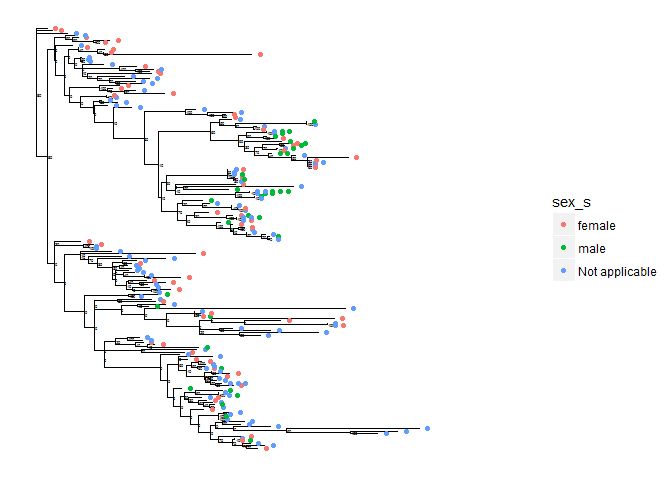
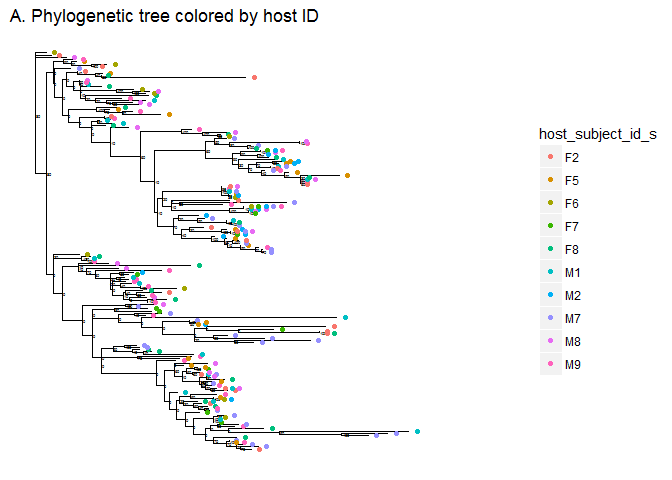
Add Figure 6B, and Discussion section rough outline

diff --git a/Analysis_Report_01_amplicons.md b/Analysis_Report_01_amplicons.md
@@ -14,21 +14,17 @@ Methods
 Sample origin and sequencing
 ----------------------------
 
-Fierer *et al.* obtained the riginal samples from human volunteers and the keyboards/mice they touched. They collected them with sterilized cotton-tipped swabs that had been moistened by a sterile solution. They swabbed the hands midday, and swabbed the mice and keyboards within 12 hours of being used by their respective owners. All of the subjects they sampled were healthy, between 20-35 years old, and had not taken antibiotics 6 months before the sampling. They stored all swabs at -80 degrees celcius for less than a week before DNA extraction.Fierer *et al.* obtained the becterial gene sequences using high-throughput 454 pyrosequencing, one of several next-generation techniques. They sequenced the 16S ribosomal gene, a gene that is conserved acros all of life and is conventionally used to identify bacterium.
+Fierer *et al.* obtained the original samples from human volunteers and the keyboards/mice they touched. They collected them with sterilized cotton-tipped swabs that had been moistened by a sterile solution. They swabbed the hands midday, and swabbed the mice and keyboards within 12 hours of being used by their respective owners. All of the subjects they sampled were healthy, between 20-35 years old, and had not taken antibiotics 6 months before the sampling. They stored all swabs at -80 degrees Celsius for less than a week before DNA extraction.Fierer *et al.* obtained the bacterial gene sequences using high-throughput 454 pyrosequencing, one of several next-generation techniques. They sequenced the 16S ribosomal gene, a gene that is conserved across all of life and is conventionally used to identify bacterium.
 
 Computational
 -------------
 
-DSATDFHGJADJHGFDJGHAFDJGDSFAHGDFSAJHWRITE MORE ABOUT DADA2
+I processed and analyzed the sequence data using a combination of bash and R. First, I used bash to process the samples in order to determine their length and quality. Sequences of sufficient quality were then analyzed in R, using all of the relevant metadata and sequence information. R analyses were conducted through the usage of base R, as well as vegan, DADA2, and phyloseq. Vegan was used for various statistical analyses, such as to create rarefaction curves. Phyloseq was used to add various microbiome-specific functions to ggplot in order to better visualize the data (McMurdie and Holmes, 2013).
 
-I proscessed and analyzed the sequence data using a combination of bash and R. First, I used bash to proscess the samples in order to determine their length and quality. Sequences of sufficient quality were then analyzed in R, using all of the relevant metadata and sequence information. R analyses were conducted through the usage of base R, as well as vegan, DADA2, and phyloseq. Vegan was used for various statistical analyses, such as to create rarefaction curves. Phyloseq was used to add various microbiome-specific functions to ggplot in order to better visualize the data (McMurdie and Holmes, 2013).
-
-DADA2 was used for inter-sequence analysis, such as forming OTUs and resolving minor sequence differences. The DADA2 pipeline begins with filtering paired fastq files by trimming them to a specific length and removing sequences that are too short, then further filtering based on number of expected errors, quality score, and number of ambiguous bases (Callahan *et al.*, 2016).
+DADA2 was used for inter-sequence analysis, such as forming OTUs and resolving minor sequence differences. The DADA2 pipeline begins with filtering paired fastq files by trimming them to a specific length and removing sequences that are too short, then further filtering based on number of expected errors, quality score, and number of ambiguous bases (Callahan *et al.*, 2016). Next, it can remove chimeras, which are sequences that are mare up of two parent sequences that result from sequencing errors. Lastly, it merges paired forward and reverse reads after all the sequences have been cleaned and de-noised, so that DADA2 can be extremely strict and require exact overlap.
 
 Results
 =======
-
-In addition to a minimum of 3-4 figures/tables (and associated captions), you should include sufficient text in this section to describe what your findings were. Remember that in the results section you just describe what you found, but you don't interpret it - that happens in the discussion.
 
 ``` r
 # Be sure to install these packages before running this script
@@ -625,7 +621,7 @@ unname(taxa)
     ##   [5,] "Bacteria" "Proteobacteria"            "Betaproteobacteria" 
     ##   [6,] "Bacteria" "Cyanobacteria/Chloroplast" "Chloroplast"        
     ##   [7,] "Bacteria" "Proteobacteria"            "Betaproteobacteria" 
-    ##   [8,] "Bacteria" "Bacteroidetes"             NA                   
+    ##   [8,] "Bacteria" "Bacteroidetes"             "Cytophagia"         
     ##   [9,] "Bacteria" "Proteobacteria"            "Alphaproteobacteria"
     ##  [10,] "Bacteria" "Proteobacteria"            "Betaproteobacteria" 
     ##  [11,] "Bacteria" "Proteobacteria"            NA                   
@@ -802,7 +798,7 @@ unname(taxa)
     ##   [5,] "Neisseriales"       "Neisseriaceae"       
     ##   [6,] "Chloroplast"        "Streptophyta"        
     ##   [7,] "Burkholderiales"    "Comamonadaceae"      
-    ##   [8,] NA                   NA                    
+    ##   [8,] "Cytophagales"       NA                    
     ##   [9,] "Rhizobiales"        "Bartonellaceae"      
     ##  [10,] "Burkholderiales"    "Oxalobacteraceae"    
     ##  [11,] NA                   NA                    
@@ -821,7 +817,7 @@ unname(taxa)
     ##  [24,] "Clostridiales"      "Lachnospiraceae"     
     ##  [25,] "Burkholderiales"    "Comamonadaceae"      
     ##  [26,] "Chloroplast"        "Streptophyta"        
-    ##  [27,] "Clostridiales"      "Ruminococcaceae"     
+    ##  [27,] "Clostridiales"      NA                    
     ##  [28,] "Actinomycetales"    "Streptomycetaceae"   
     ##  [29,] "Clostridiales"      "Ruminococcaceae"     
     ##  [30,] "Sphingomonadales"   "Sphingomonadaceae"   
@@ -951,7 +947,7 @@ unname(taxa)
     ## [154,] NA                   NA                    
     ## [155,] NA                   NA                    
     ## [156,] "Clostridiales"      "Ruminococcaceae"     
-    ## [157,] "Clostridiales"      "Ruminococcaceae"     
+    ## [157,] "Clostridiales"      NA                    
     ## [158,] "Clostridiales"      NA                    
     ## [159,] "Lactobacillales"    "Carnobacteriaceae"   
     ## [160,] "Flavobacteriales"   "Flavobacteriaceae"   
@@ -967,7 +963,7 @@ unname(taxa)
     ## [170,] "Actinomycetales"    "Propionibacteriaceae"
     ## [171,] "Rhizobiales"        "Bradyrhizobiaceae"   
     ## [172,] "Clostridiales"      NA                    
-    ## [173,] "Clostridiales"      "Catabacteriaceae"    
+    ## [173,] "Clostridiales"      NA                    
     ## [174,] "Actinomycetales"    NA                    
     ## [175,] "Pasteurellales"     "Pasteurellaceae"     
     ## [176,] "Actinomycetales"    "Microbacteriaceae"   
@@ -1002,9 +998,9 @@ unname(taxa)
     ##  [28,] "Streptomyces"             
     ##  [29,] NA                         
     ##  [30,] "Sphingobium"              
-    ##  [31,] NA                         
+    ##  [31,] "Marmoricola"              
     ##  [32,] "Streptomyces"             
-    ##  [33,] "Salinibacterium"          
+    ##  [33,] NA                         
     ##  [34,] "Streptomyces"             
     ##  [35,] "Ruminococcus"             
     ##  [36,] "Methylotenera"            
@@ -1019,13 +1015,13 @@ unname(taxa)
     ##  [45,] "Pseudomonas"              
     ##  [46,] "Streptomyces"             
     ##  [47,] NA                         
-    ##  [48,] "Pelomonas"                
+    ##  [48,] NA                         
     ##  [49,] "Microbacterium"           
     ##  [50,] "Mycobacterium"            
     ##  [51,] NA                         
     ##  [52,] NA                         
     ##  [53,] "Streptomyces"             
-    ##  [54,] NA                         
+    ##  [54,] "Sphingosinicella"         
     ##  [55,] NA                         
     ##  [56,] NA                         
     ##  [57,] "Oscillibacter"            
@@ -1036,7 +1032,7 @@ unname(taxa)
     ##  [62,] "Microvirga"               
     ##  [63,] NA                         
     ##  [64,] "Arthrobacter"             
-    ##  [65,] "Marmoricola"              
+    ##  [65,] NA                         
     ##  [66,] "Microbacterium"           
     ##  [67,] "Sphingomonas"             
     ##  [68,] NA                         
@@ -1051,7 +1047,7 @@ unname(taxa)
     ##  [77,] "Nocardia"                 
     ##  [78,] "Nocardioides"             
     ##  [79,] "Subtercola"               
-    ##  [80,] "Butyricicoccus"           
+    ##  [80,] NA                         
     ##  [81,] "Cloacibacterium"          
     ##  [82,] "Microbacterium"           
     ##  [83,] "Sphingomonas"             
@@ -1073,7 +1069,7 @@ unname(taxa)
     ##  [99,] "Knoellia"                 
     ## [100,] NA                         
     ## [101,] NA                         
-    ## [102,] "Oscillibacter"            
+    ## [102,] NA                         
     ## [103,] "Blautia"                  
     ## [104,] "Aeromicrobium"            
     ## [105,] NA                         
@@ -1119,7 +1115,7 @@ unname(taxa)
     ## [145,] "Pseudoflavonifractor"     
     ## [146,] "Nocardioides"             
     ## [147,] NA                         
-    ## [148,] NA                         
+    ## [148,] "Arachidicoccus"           
     ## [149,] "Ruminococcus"             
     ## [150,] NA                         
     ## [151,] NA                         
@@ -1144,7 +1140,7 @@ unname(taxa)
     ## [170,] "Tessaracoccus"            
     ## [171,] "Rhodopseudomonas"         
     ## [172,] NA                         
-    ## [173,] "Catabacter"               
+    ## [173,] NA                         
     ## [174,] NA                         
     ## [175,] "Nicoletella"              
     ## [176,] "Agrococcus"
@@ -1209,7 +1205,8 @@ aggregated_sequence_data <- aggregate(sequence_table_nochim,
                             by = list(sex = metadata_in$sex_s),
                             FUN = sum)
 row.names(aggregated_sequence_data) <- aggregated_sequence_data$sex
-aggregated_sequence_data <- aggregated_sequence_data[2:length(aggregated_sequence_data)]
+aggregated_sequence_data <- aggregated_sequence_data[
+  2:length(aggregated_sequence_data)]
 rarecurve(aggregated_sequence_data,
           main = "Species diversity in male vs female hands")
 ```
@@ -1245,7 +1242,7 @@ plot_richness(subsetted_pls_obj,
 
 ### Figure 2. Alpha diversity measures in each gender
 
-This figure shows boxplots that represent the total diversity in both male and femalle hands, using both Shannon and Simpson diversity metrics.
+This figure shows boxplots that represent the total diversity in both male and female hands, using both Shannon and Simpson diversity metrics.
 
 ``` r
 # this code plots the abundance of each phylum present in each sex's hands
@@ -1262,7 +1259,31 @@ plot_bar(subsetted_pls_obj,
 
 ### Figure 3. Abundance of various phylums in each sex
 
-This figure shows a bar graph that represents the relative abundance of bacterial phylums in each hand, sepparated by sex.
+This figure shows a bar graph that represents the relative abundance of bacterial phylums in each hand, separated by sex.
+
+``` r
+# this code looks at the abundance of each phylum in each
+# individual, and again pairs humans with their mice
+ggplot(melted_phyloseq_obj,
+        aes(x = host_subject_id_s,
+            y = Abundance,
+        color = sample_type_s)) +
+  xlab("Individual") +
+  geom_bar(aes(fill = sample_type_s),
+        stat = "Identity",
+        position = "dodge") +
+  theme(axis.text.x = element_text(angle = 0, hjust = 1),
+        strip.text.y = element_text(angle = 360)) +
+  ggtitle("Phylum abundance in hands and mice") +
+  facet_grid(Phylum ~ substr(melted_phyloseq_obj$host_subject_id_s, 1, 1),
+             scales = "free_x")
+```
+
+![](Analysis_Report_01_amplicons_files/figure-markdown_github-ascii_identifiers/proteobacteria-in-hands-v-mice-1.png)
+
+### Figure 5. Abundance of each phylum in human hands and their respective mice
+
+This figure shows the overall abundance of each phylum in each individual. Once again, it distinguished between each subject's hand and their respective mouse.
 
 ``` r
 # this code looks at the differences in diversity between
@@ -1272,14 +1293,14 @@ plot_richness(phyloseq_obj,
               measures = c("Shannon"),
               color = "sample_type_s") +
   xlab("Individual") +
-  geom_bar(aes(fill = sample_type_s), 
-        stat = "Identity", 
+  geom_bar(aes(fill = sample_type_s),
+        stat = "Identity",
         position = "dodge") +
   ggtitle("Shannon diversity in mice and hands") +
   theme(axis.text.x = element_text(angle = 0, hjust = 1)) +
 # this next line tells R to only consider the first letter
 # of the host ID (M2, F4, etc.), so the figure splits by sex
-  facet_wrap(~ substr(metadata_in$host_subject_id_s, 1, 1),
+  facet_wrap(~ rep(c("F", "M"), each = 10),
              scales = "free_x")
 ```
 
@@ -1292,51 +1313,51 @@ plot_richness(phyloseq_obj,
 
 ![](Analysis_Report_01_amplicons_files/figure-markdown_github-ascii_identifiers/male-female-hands-vs-mice-1.png)
 
-### Figure 4. Diversity in human hands compared to their respective mice
+### Figure 5. Diversity in human hands compared to their respective mice
 
 This figure shows the Shannon diversity in each human hand, compared to the respective mouse that individual used.
 
 ``` r
-# this code looks at the abundance of each phylum in each
-# individual, and again pairs humans with their mice
-ggplot(melted_phyloseq_obj,
-        aes(x = host_subject_id_s,
-            y = Abundance,
-        color = sample_type_s)) +
-  xlab("Individual") +
-  geom_bar(aes(fill = sample_type_s), 
-        stat = "Identity", 
-        position = "dodge") +
-  theme(axis.text.x = element_text(angle = 0, hjust = 1),
-        strip.text.y = element_text(angle = 360)) +
-  ggtitle("Phylum abundance in hands and mice") +
-  facet_grid(Phylum ~ substr(melted_phyloseq_obj$host_subject_id_s, 1, 1), 
-             scales = "free_x")
-```
-
-![](Analysis_Report_01_amplicons_files/figure-markdown_github-ascii_identifiers/proteobacteria-in-hands-v-mice-1.png)
-
-### Figure 5. Abundance of each phylum in human hands and their respective mice
-
-This figure shows the overall abundance of each phylum in each individual. Once again, it distinguished between each subject's hand and their respective mouse.
-
-``` r
-# phylogeny, yay!
+# this code makes a phylogenetic tree with points colored by individual ID
 plot_tree(phyloseq_obj,
-          color = "sex_s",
-          ladderize = TRUE) # this arranges the tree branches from short to long
+          color = "host_subject_id_s",
+          ladderize = TRUE) +
+# the last line arranges the tree branches from short to long
+  ggtitle("A. Phylogenetic tree colored by host ID")
 ```
 
 ![](Analysis_Report_01_amplicons_files/figure-markdown_github-ascii_identifiers/example-phyloseq-plot-2-1.png)
 
-### Figure 2: Inferred phylogeny of sequences
+``` r
+# this code makes a phylogenetic tree with points colored by host sex
+plot_tree(phyloseq_obj,
+          color = "sex_s",
+          ladderize = TRUE) +
+  ggtitle("B. Phylogenetic tree colored by host sex")
+```
 
-This figure shows a phylogenetic tree with points on tips representing samples within which each particular taxa occurred. This tree represents maximum likelihood phylogeny inferred using RAxML.
+![](Analysis_Report_01_amplicons_files/figure-markdown_github-ascii_identifiers/example-phyloseq-plot-2-2.png)
+
+### Figure 6: Inferred phylogeny of sequences
+
+This figure shows a phylogeny tree with points on tips representing samples within which each particular taxa occurred. This tree represents maximum likelihood phylogeny inferred using RAxML.
 
 Discussion
 ==========
 
 Add around 2-3 pages interpreting your results and considering future directions one might take in analyzing these data.
+
+In my analysis of this data, I focused on the interaction between gender and hand microbiome, as well as the reletionship between one's hand microbiome and the inanimate objects they interact with. For human subjects of either sex, and for mouse samples as well, I found that Fierer *et al.* appeared to have samples the full range of bacterial community diversity. Despite the varying sample sizes, every curve in the rarefaction curve forms a plateau after its initially steep incline, indicating that even if more samples were to be included, it is unlikely that the amount of diversity found would change significantly (fig 1).
+
+Interestingly, despite the fact that there was a greater number of sequences for male test subjects, they showed less overall diversity than females, no matter which alpha idversity metrics are used (fig. 2).
+
+Of all the phylums present on human test subjects, the most abundant in both male and female hands was Proteobacteria (fig. 3). Hoewver, it was vastly more common in male hands in terms of both overall abundance and proportion of the overall community makeup (fig. 3). This abundance of proteobacteria could be the reason that male hands show significantly lower diversity than female hands.
+
+While Proteobacteria is present in nearly every individual, most of the less-abundant plylums are only found in one or two of the individuals (fig. 4). That said, there are several phylums that have smallabundance in each undividual, but a larger abundance intjier respective sex as a whole. For example, Actinobacteria is the second most common phylum in female hands (fig. 3), but none of the female hands or mice have a perticularly large abundance of it (fig. 4). Lastly, there does not appear to be a phylum that is prominently found on mice, but absent on human hands (fig. 4). However, the opposite is not true in all cases. For example, while the Bacteriodetes phylum was found in great abundance on several female hands, neither of their respective mice nor any of the other mice show a great abundance of this phylum (fig. 4)
+
+There also appears to be a difference in the amount of diversity between male and female hands and the objects they have touched, as well. Whereas all but one female has more diversity on her hand than on the mouse she touched, the opposite is true in males (fig. 5). While this could be due to the generally low diversity in male hands, this seems unlikely because the diversity on males' mice is not simply higher than the diversity of male hands, but also higher than the diversity in females' mice (fig 5).
+
+A phylogenetic tree of all of the obtained sequences shows that while distinct clades form, there is no apparent pattern between clades and host individuals. There appears to be no strong correlations of certain clades belonging primarily to one indivitual's hand and mouse biome (fig. 6A). While there may be a couple of close nodes that belong to the same individual, there are no large clades that correlate to any one individual. Every large clade appears to contain samples from both sexes as well, although there are several clades that do not contain the 'Not Applicable' sex given to mouse samples (fig. 6B).
 
 Sources Cited
 =============
